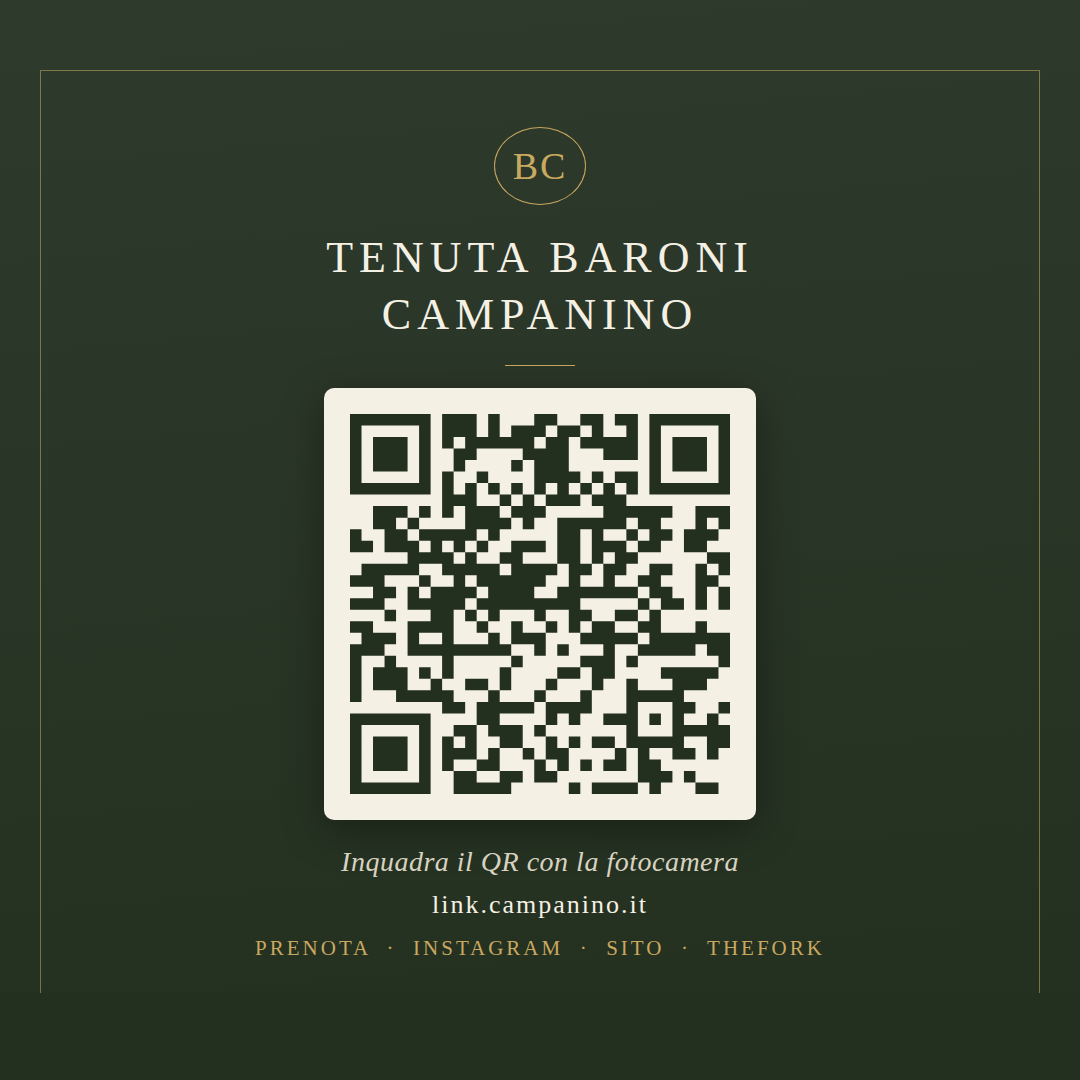
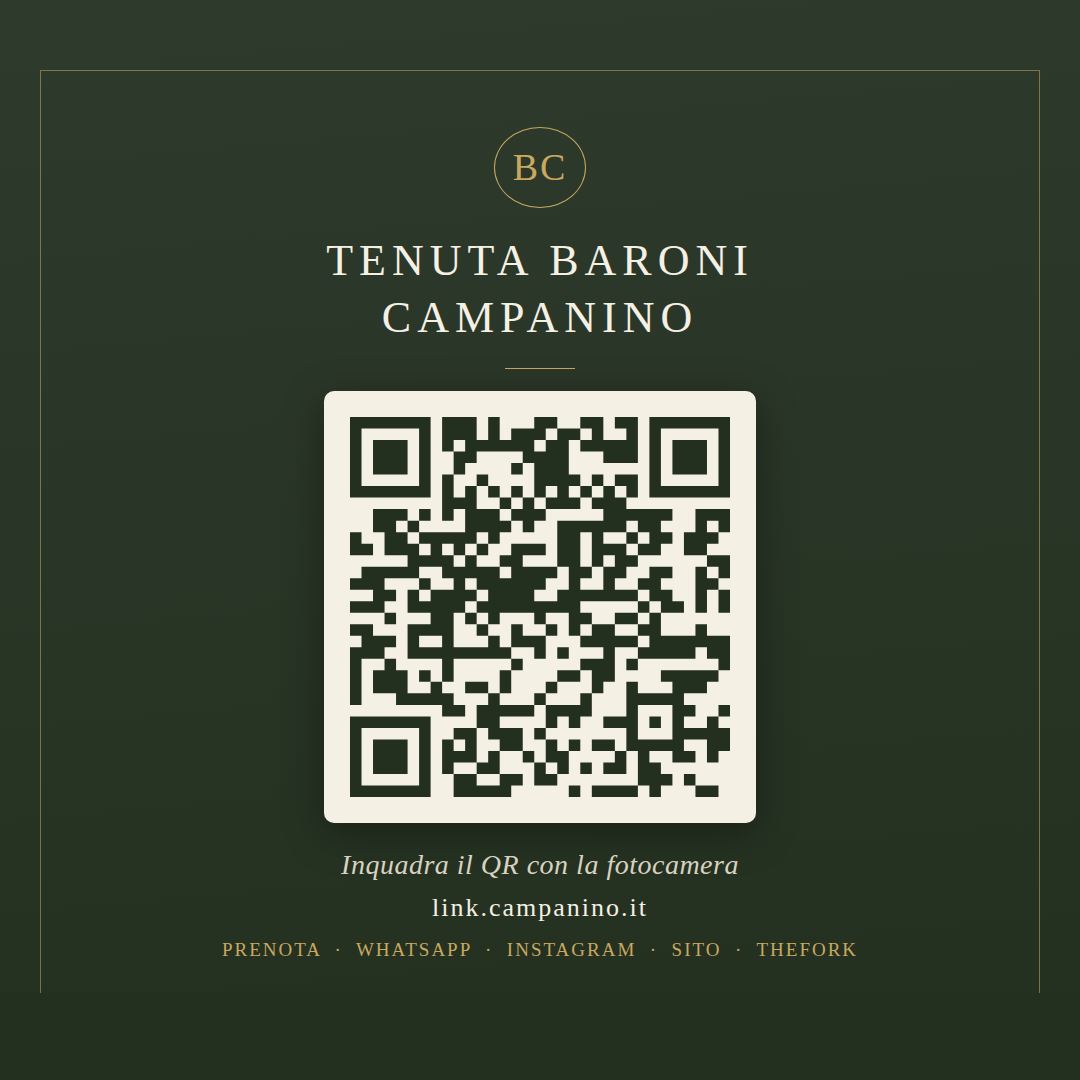
Aggiunto gruppo WhatsApp alla pagina multilink e alla grafica QR
Claude-Session: https://claude.ai/code/session_01AJtZJ7iracu3mmHtUNaPXQ

diff --git a/index.html b/index.html
@@ -88,6 +88,13 @@
         </svg>
         Prenota un tavolo
       </a>
+      <a class="btn" href="https://chat.whatsapp.com/K3hym5ISIBUG6pMxXAkyuo">
+        <svg viewBox="0 0 24 24" fill="none" stroke="currentColor" stroke-width="1.6" stroke-linecap="round" stroke-linejoin="round">
+          <path d="M12 3a9 9 0 0 0-7.7 13.7L3.2 20.8l4.2-1.1A9 9 0 1 0 12 3z"/>
+          <path d="M9 8.4c.2-.4.4-.4.7-.4h.5c.2 0 .4 0 .6.4l.6 1.3c.1.2 0 .4-.1.6l-.4.4c-.2.2-.2.3-.1.5a5.5 5.5 0 0 0 2.5 2.2c.2.1.4 0 .5-.1l.4-.5c.2-.2.3-.2.5-.1l1.3.6c.3.1.4.3.4.5 0 .9-.7 1.7-1.5 1.8-.3 0-.6 0-.9-.1a9.2 9.2 0 0 1-5.6-5.4c-.3-.9-.3-1.7 0-2.3z"/>
+        </svg>
+        Gruppo WhatsApp
+      </a>
       <a class="btn" href="https://www.instagram.com/tenutabaronicampanino/">
         <svg viewBox="0 0 24 24" fill="none" stroke="currentColor" stroke-width="1.6" stroke-linecap="round">
           <rect x="3" y="3" width="18" height="18" rx="5"/>
